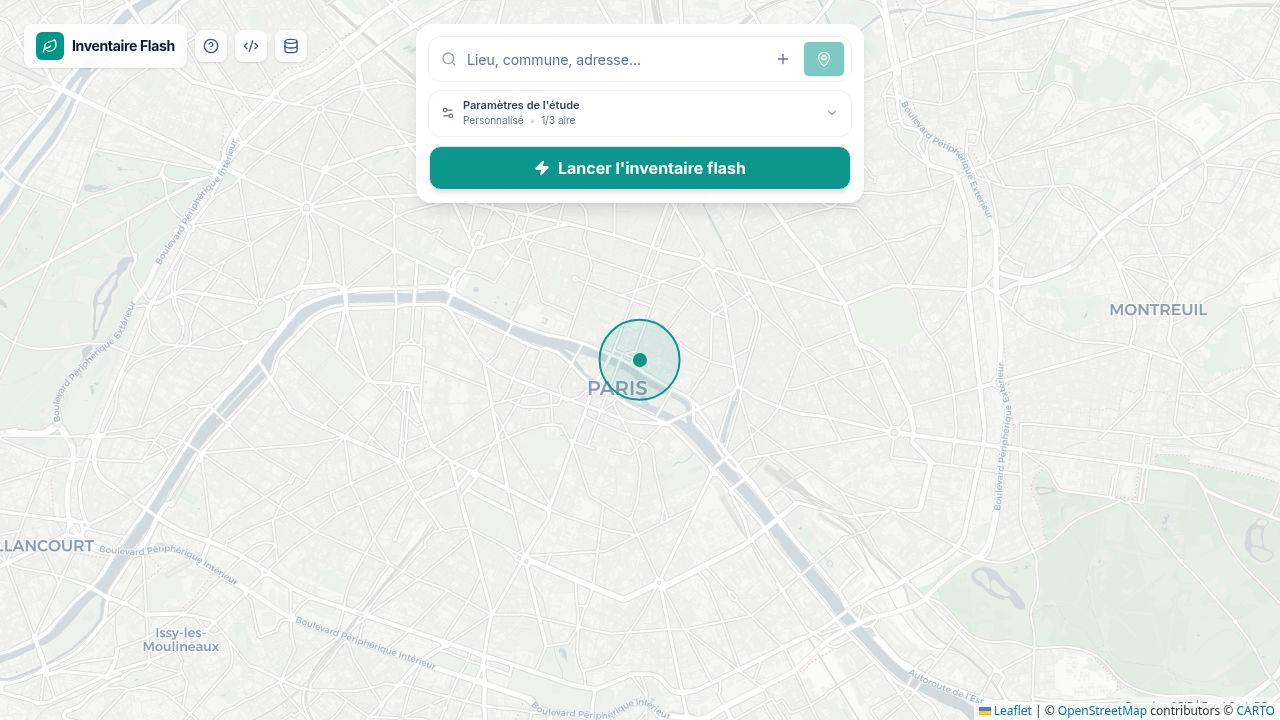
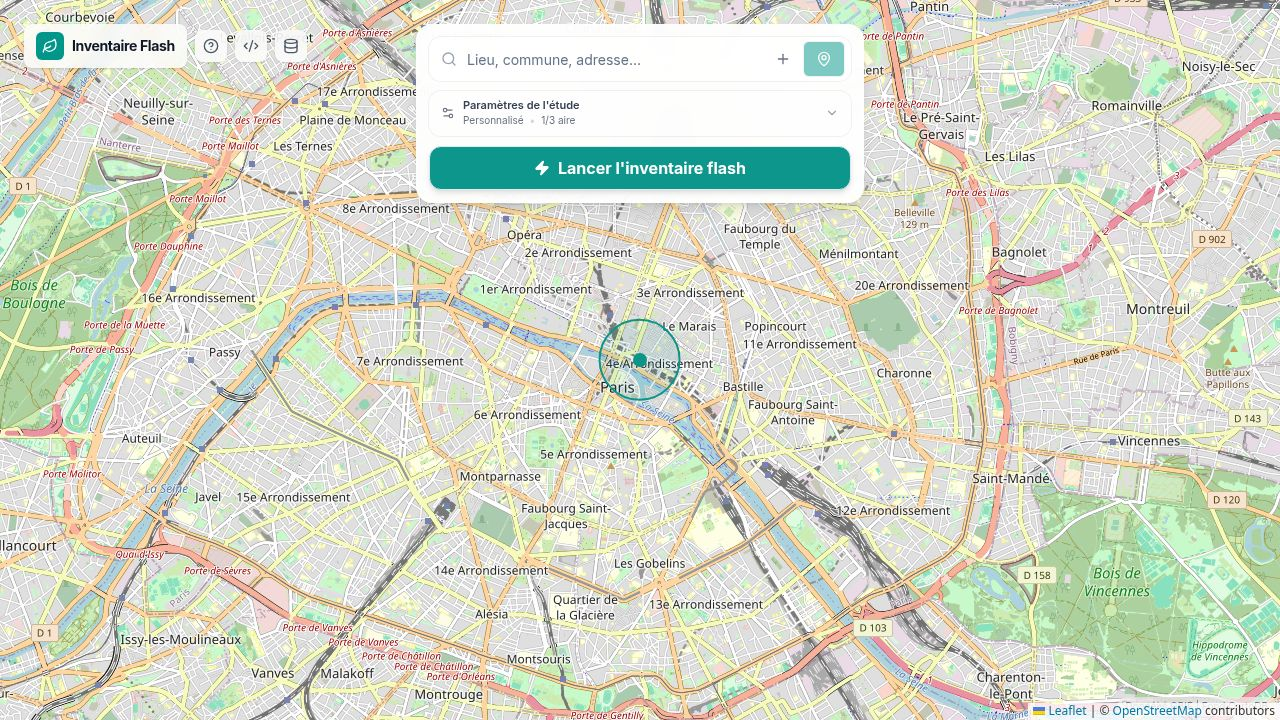
Add a filter to exclude marine species from search results
Integrates a new 'excludeMarine' state in Home.tsx, passed down to Map.tsx and ResultsPanel.tsx to conditionally filter occurrences based on phylum and class in gbif.ts.

Replit-Commit-Author: Agent
Replit-Commit-Session-Id: 968372e9-546c-41ac-8a1b-b525197c030f
Replit-Commit-Checkpoint-Type: full_checkpoint
Replit-Commit-Event-Id: 6dd6535d-c3f6-48aa-af82-d252d2cad0c8
Replit-Commit-Screenshot-Url: https://storage.googleapis.com/screenshot-production-us-central1/762f6950-69ba-4f59-9f99-7a8aaf2ae693/968372e9-546c-41ac-8a1b-b525197c030f/nLyjpVg
Replit-Helium-Checkpoint-Created: true

diff --git a/client/src/components/ResultsPanel.tsx b/client/src/components/ResultsPanel.tsx
@@ -4,7 +4,7 @@ import { Button } from "@/components/ui/button";
 import { ScrollArea } from "@/components/ui/scroll-area";
 import { Dialog, DialogContent, DialogHeader, DialogTitle } from "@/components/ui/dialog";
 import { X, Download, FileText, AlertTriangle, Leaf, Info, ChevronDown, ChevronUp, ImageOff, Copy, Check, ExternalLink, BookOpen, Shield, MapPin, Tag, Calendar, Link, Flag, Layers, Filter, Table, Sparkles } from "lucide-react";
-import { InventoryResult, Occurrence, getIucnLabel, ConfidenceScore, TAXON_GROUPS, getTaxonGroupId } from "@/lib/gbif";
+import { InventoryResult, Occurrence, getIucnLabel, ConfidenceScore, TAXON_GROUPS, getTaxonGroupId, isMarineSpecies } from "@/lib/gbif";
 import { findSINPPlatforms, SINPPlatform } from "@/lib/sinp";
 import { exportCSV, exportExcel } from "@/lib/export";
 import html2canvas from "html2canvas";
@@ -21,19 +21,34 @@ interface ResultsPanelProps extends ResultsPanelPropsBase {
   activeTaxonFilters: Set<string>;
   onToggleTaxonFilter: (groupId: string) => void;
   onToggleAllTaxonFilters: (presentGroupIds?: string[]) => void;
+  excludeMarine?: boolean;
+  onToggleExcludeMarine?: () => void;
 }
 
-export function ResultsPanel({ isOpen, onClose, results, selectedSpecies, onSelectSpecies, activeTaxonFilters, onToggleTaxonFilter, onToggleAllTaxonFilters, onOpenPriority }: ResultsPanelProps) {
+export function ResultsPanel({ isOpen, onClose, results, selectedSpecies, onSelectSpecies, activeTaxonFilters, onToggleTaxonFilter, onToggleAllTaxonFilters, excludeMarine, onToggleExcludeMarine, onOpenPriority }: ResultsPanelProps) {
   const [showMedium, setShowMedium] = useState(false);
   const [showLow, setShowLow] = useState(false);
   const [showReportPreview, setShowReportPreview] = useState(false);
   const [copied, setCopied] = useState(false);
   const [showFilters, setShowFilters] = useState(true);
 
+  const marineCount = useMemo(() => {
+    if (!results) return 0;
+    const seen = new Set<string>();
+    let n = 0;
+    for (const occ of results.occurrences) {
+      if (seen.has(occ.scientificName)) continue;
+      seen.add(occ.scientificName);
+      if (isMarineSpecies(occ)) n += 1;
+    }
+    return n;
+  }, [results]);
+
   const taxonCounts = useMemo(() => {
     if (!results) return new Map<string, number>();
     const uniqueMap = new Map<string, Occurrence>();
     results.occurrences.forEach((occ) => {
+      if (excludeMarine && isMarineSpecies(occ)) return;
       const existing = uniqueMap.get(occ.scientificName);
       if (!existing || getAlertPriority(occ.alertLevel) > getAlertPriority(existing.alertLevel)) {
         uniqueMap.set(occ.scientificName, occ);
@@ -45,7 +60,7 @@ export function ResultsPanel({ isOpen, onClose, results, selectedSpecies, onSele
       counts.set(groupId, (counts.get(groupId) || 0) + 1);
     }
     return counts;
-  }, [results]);
+  }, [results, excludeMarine]);
 
   const presentGroups = useMemo(() => {
     return TAXON_GROUPS.filter(g => (taxonCounts.get(g.id) || 0) > 0);
@@ -56,6 +71,7 @@ export function ResultsPanel({ isOpen, onClose, results, selectedSpecies, onSele
     
     const uniqueMap = new Map<string, Occurrence>();
     results.occurrences.forEach((occ) => {
+      if (excludeMarine && isMarineSpecies(occ)) return;
       const existing = uniqueMap.get(occ.scientificName);
       if (!existing || getAlertPriority(occ.alertLevel) > getAlertPriority(existing.alertLevel)) {
         uniqueMap.set(occ.scientificName, occ);
@@ -93,7 +109,7 @@ export function ResultsPanel({ isOpen, onClose, results, selectedSpecies, onSele
       medium: unique.filter(o => o.alertLevel === "medium").sort(sortByEnjeu),
       low: unique.filter(o => o.alertLevel === "low").sort(sortByEnjeu),
     };
-  }, [results, activeTaxonFilters]);
+  }, [results, activeTaxonFilters, excludeMarine]);
 
   const allFilteredSpecies = useMemo(() => {
     return [...sortedSpecies.high, ...sortedSpecies.medium, ...sortedSpecies.low];
@@ -301,6 +317,22 @@ Note: Cet inventaire flash repose sur les données GBIF et les statuts IUCN. Il 
                         >
                           {isAllActive ? "Tout désélectionner" : "Tout sélectionner"}
                         </button>
+                        {onToggleExcludeMarine && marineCount > 0 && (
+                          <label
+                            className="flex items-center gap-1.5 text-[11px] text-gray-700 cursor-pointer select-none"
+                            title="Masque les espèces des phyla strictement marins (Cnidaria, Echinodermata, Porifera…) et des classes marines (Chondrichthyes, Cephalopoda…)"
+                          >
+                            <input
+                              type="checkbox"
+                              checked={!!excludeMarine}
+                              onChange={onToggleExcludeMarine}
+                              className="h-3 w-3 accent-teal-600 cursor-pointer"
+                              data-testid="checkbox-exclude-marine"
+                            />
+                            <span>Exclure marines</span>
+                            <span className="text-[10px] text-gray-400">({marineCount})</span>
+                          </label>
+                        )}
                       </div>
                       <div className="flex flex-wrap gap-1.5">
                         {presentGroups.map(group => {

diff --git a/client/src/components/Map.tsx b/client/src/components/Map.tsx
@@ -2,7 +2,7 @@ import { MapContainer, TileLayer, Circle, CircleMarker, GeoJSON, useMapEvents, u
 import { useEffect, useMemo } from "react";
 import "leaflet/dist/leaflet.css";
 import L from "leaflet";
-import { InventoryResult, BufferCircle, STUDY_AREAS, getTaxonGroupId } from "@/lib/gbif";
+import { InventoryResult, BufferCircle, STUDY_AREAS, getTaxonGroupId, isMarineSpecies } from "@/lib/gbif";
 import type { ProjectPolygon } from "@/lib/shapefile";
 
 import icon from 'leaflet/dist/images/marker-icon.png';
@@ -24,6 +24,7 @@ interface MapProps {
   onMapClick: (lat: number, lng: number) => void;
   selectedSpecies: string | null;
   activeTaxonFilters: Set<string>;
+  excludeMarine?: boolean;
   projectPolygon: ProjectPolygon | null;
 }
 
@@ -48,15 +49,18 @@ function MapEvents({ onMapClick }: { onMapClick: (lat: number, lng: number) => v
   return null;
 }
 
-export function Map({ center, circles, results, onMapClick, selectedSpecies, activeTaxonFilters, projectPolygon }: MapProps) {
+export function Map({ center, circles, results, onMapClick, selectedSpecies, activeTaxonFilters, excludeMarine, projectPolygon }: MapProps) {
   const sortedCircles = [...circles]
     .filter(c => c.enabled)
     .sort((a, b) => b.radius - a.radius);
 
   const filteredOccurrences = useMemo(() => {
     if (!results) return [];
-    return results.occurrences.filter(occ => activeTaxonFilters.has(getTaxonGroupId(occ)));
-  }, [results, activeTaxonFilters]);
+    return results.occurrences.filter(occ =>
+      activeTaxonFilters.has(getTaxonGroupId(occ)) &&
+      !(excludeMarine && isMarineSpecies(occ))
+    );
+  }, [results, activeTaxonFilters, excludeMarine]);
 
   return (
     <div id="map-container" className="h-full w-full relative z-0">
@@ -141,7 +145,7 @@ export function Map({ center, circles, results, onMapClick, selectedSpecies, act
       </MapContainer>
       
       <div className="absolute bottom-1 right-1 bg-white/50 backdrop-blur px-2 py-0.5 text-[10px] text-gray-500 rounded z-[400] pointer-events-none">
-        Données GBIF | Fond CartoDB
+        Données GBIF | Fond OpenStreetMap
       </div>
     </div>
   );

diff --git a/client/src/lib/gbif.ts b/client/src/lib/gbif.ts
@@ -42,6 +42,45 @@ export function getTaxonGroupId(occ: Occurrence): string {
   return "autres";
 }
 
+const MARINE_PHYLA = new Set([
+  "Cnidaria",
+  "Echinodermata",
+  "Porifera",
+  "Ctenophora",
+  "Brachiopoda",
+  "Chaetognatha",
+  "Bryozoa",
+  "Hemichordata",
+  "Phoronida",
+  "Xenacoelomorpha",
+  "Placozoa",
+]);
+
+const MARINE_CLASSES = new Set([
+  "Chondrichthyes",
+  "Cephalopoda",
+  "Polyplacophora",
+  "Scaphopoda",
+  "Ascidiacea",
+  "Thaliacea",
+  "Appendicularia",
+  "Anthozoa",
+  "Hydrozoa",
+  "Scyphozoa",
+  "Cubozoa",
+  "Asteroidea",
+  "Echinoidea",
+  "Holothuroidea",
+  "Crinoidea",
+  "Ophiuroidea",
+]);
+
+export function isMarineSpecies(occ: Occurrence): boolean {
+  if (occ.phylum && MARINE_PHYLA.has(occ.phylum)) return true;
+  if (occ.class && MARINE_CLASSES.has(occ.class)) return true;
+  return false;
+}
+
 export const STUDY_AREAS = [
   { id: "immediate", label: "Aire d'étude immédiate", radius: 500, color: "#0d9488", dashArray: undefined as string | undefined },
   { id: "rapprochee", label: "Aire d'étude rapprochée", radius: 2000, color: "#2563eb", dashArray: "10, 8" },

diff --git a/client/src/pages/Home.tsx b/client/src/pages/Home.tsx
@@ -43,6 +43,7 @@ export default function Home() {
   const [activeTaxonFilters, setActiveTaxonFilters] = useState<Set<string>>(
     () => new Set(TAXON_GROUPS.map(g => g.id))
   );
+  const [excludeMarine, setExcludeMarine] = useState<boolean>(true);
   const [projectPolygon, setProjectPolygon] = useState<ProjectPolygon | null>(null);
   const [isLoadingShapefile, setIsLoadingShapefile] = useState(false);
   const { toast } = useToast();
@@ -250,6 +251,7 @@ export default function Home() {
         onMapClick={handleMapClick}
         selectedSpecies={selectedSpecies}
         activeTaxonFilters={activeTaxonFilters}
+        excludeMarine={excludeMarine}
         projectPolygon={projectPolygon}
       />
 
@@ -281,6 +283,8 @@ export default function Home() {
         activeTaxonFilters={activeTaxonFilters}
         onToggleTaxonFilter={handleToggleTaxonFilter}
         onToggleAllTaxonFilters={handleToggleAllTaxonFilters}
+        excludeMarine={excludeMarine}
+        onToggleExcludeMarine={() => setExcludeMarine(v => !v)}
         onOpenPriority={() => setShowPriority(true)}
       />
 
